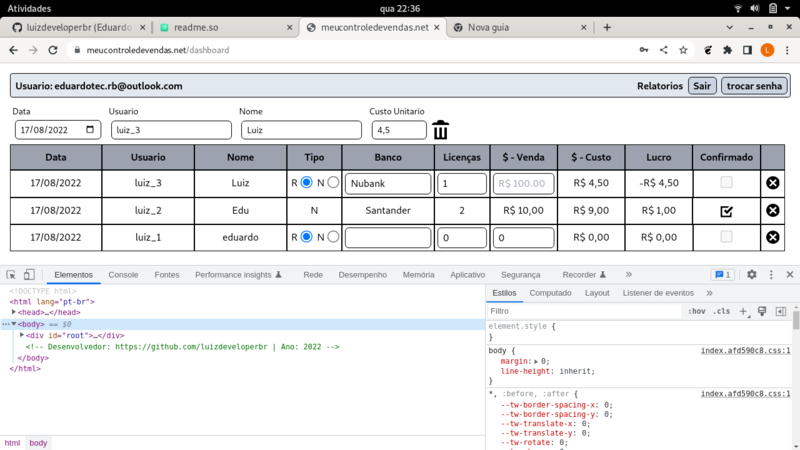
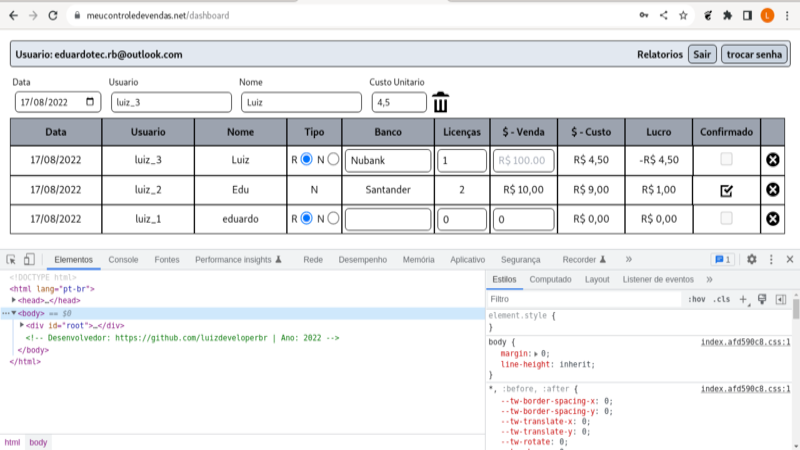
readme

diff --git a/README.md b/README.md
@@ -1,4 +1,3 @@
-
 # Controle de Vendas
 
 sistema de comtrole de vendas realizados por aplicativo de mensagem (Telegram)
@@ -11,7 +10,7 @@ sistema de comtrole de vendas realizados por aplicativo de mensagem (Telegram)
 
 ## Screenshots
 
-![App Screenshot](https://via.placeholder.com/468x300?text=App+Screenshot+Here)
+![App Screenshot](https://raw.githubusercontent.com/luizdeveloperbr/STS/master/docs/01.png)
 
 ## Demonstração
 
